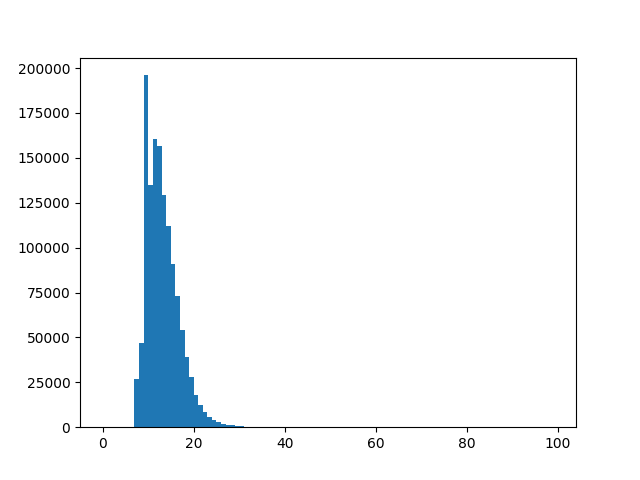
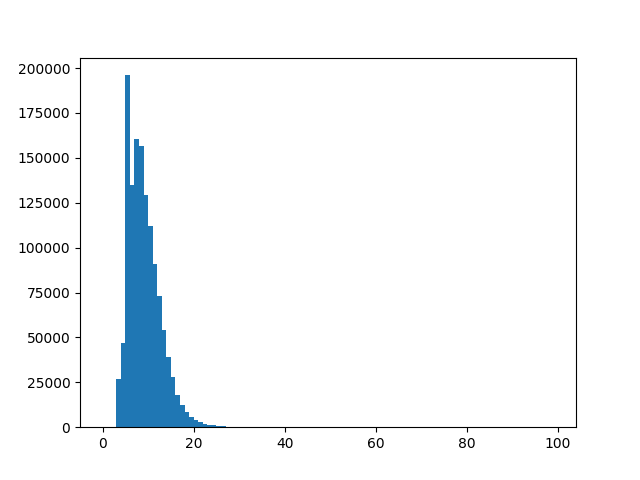
[name length analysis] remove .eth

Changed region(s): [[0.1562, 0.1562, 0.375, 0.9062]]

diff --git a/research/names/run_analysis.py b/research/names/run_analysis.py
@@ -11,7 +11,7 @@ DATA_DIR = PROJECT_DIR / 'data'
 
 print('Loading data...')
 with open(DATA_DIR / 'primary.csv', 'r') as f:
-    names = [l for l in map(str.strip, f) if len(l) > 0]
+    names = [l.removesuffix('.eth') for l in map(str.strip, f) if len(l) > 0]
 print('Loaded', len(names), 'names')
 
 
